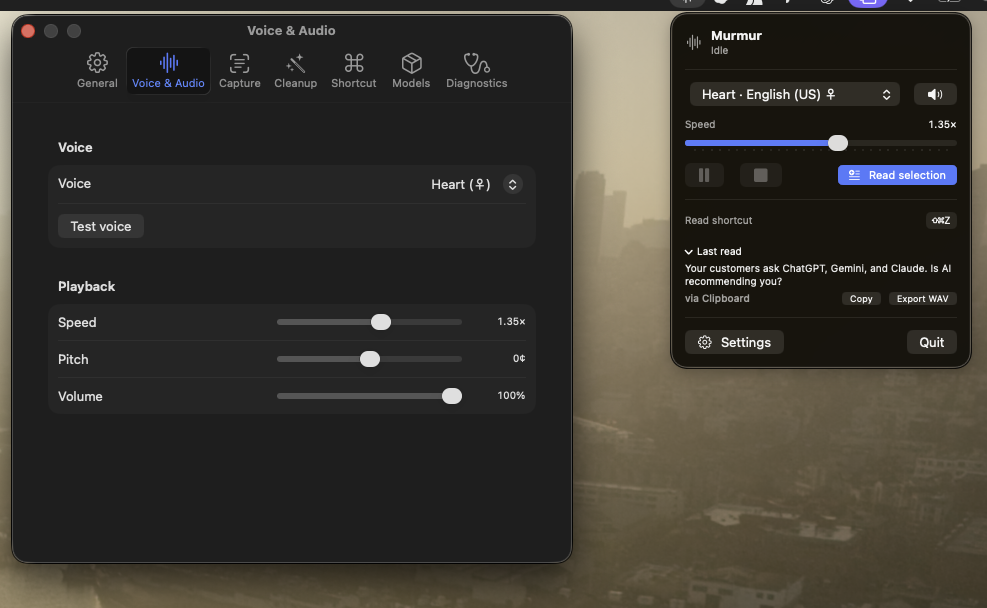
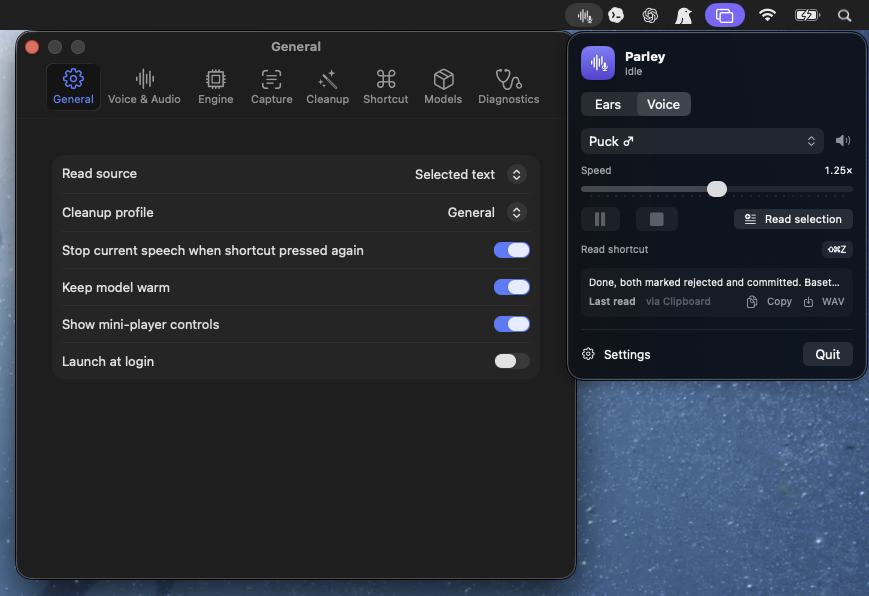
fix(hud,backend,docs): smooth grow fade, softer stop chime, lsof parse, README voice+ears
HUD: fade the transcript top edge as soon as it passes the first line
(not only on full overflow), and ease grow/shrink — removes the 'wonky'
hard-clip while the box expands. Settled and growing states now match.

Chime: stop cue 'Bottle' -> soft 'Pop' (start stays 'Tink').

Backend: fix listenerPID — 'lsof -t' prints bare PIDs, the '-Fp' parser
never matched so orphan adoption silently no-op'd. Verified end to end:
adopt orphan on launch, kill on quit, port frees.

Docs: README reframed as voice + ears (Parakeet dictation, modifier-only
chords, Ears/Voice tabs); new hero screenshot; permissions + license
updated for STT/FluidAudio.

Assisted-by: Claude claude-opus-4-8

diff --git a/app/Sources/Parley/DictationController.swift b/app/Sources/Parley/DictationController.swift
@@ -33,7 +33,9 @@ final class DictationController: ObservableObject {
     /// the screen (FluidVoice does this). Uses built-in macOS sounds.
     private func playChime(start: Bool) {
         guard Prefs.shared.dictationChime else { return }
-        NSSound(named: start ? "Tink" : "Bottle")?.play()
+        // Start: a bright "Tink" to cue recording. Stop: a soft "Pop" on insert —
+        // unobtrusive, distinct from the start cue ("Bottle" was too heavy).
+        NSSound(named: start ? "Tink" : "Pop")?.play()
     }
 
     /// Push-to-talk toggle.
@@ -213,25 +215,32 @@ struct DictationHUD: View {
                 Color.clear.frame(height: 1).id("bottom")
             }
             .frame(height: min(max(textHeight, oneLine), maxTextHeight))
-            // When the transcript overflows, fade the top edge so the partially-
-            // scrolled line softens out instead of being chopped mid-letter.
+            // Fade the top edge as soon as the transcript passes the first line —
+            // not only once it fully overflows. While the box is still growing,
+            // the bottom-pinned scroll would otherwise hard-chop the top line mid-
+            // letter; the gradient softens that the whole way up, so growth looks
+            // as clean as the settled (expanded) state.
             .mask {
                 VStack(spacing: 0) {
-                    // Fade a full line-height so a partially-scrolled top line
-                    // disappears smoothly instead of showing a hard half-line.
                     LinearGradient(colors: [.clear, .black], startPoint: .top, endPoint: .bottom)
-                        .frame(height: overflowing ? 30 : 0)
+                        .frame(height: faded ? 30 : 0)
                     Color.black
                 }
             }
-            .onPreferenceChange(TextHeightKey.self) { textHeight = $0 }
+            .onPreferenceChange(TextHeightKey.self) { h in
+                // Animate the grow/shrink so added lines ease in instead of
+                // snapping (which read as the "wonky" jump while it expanded).
+                withAnimation(.easeOut(duration: 0.12)) { textHeight = h }
+            }
             .onChange(of: dictation.partial) {
                 withAnimation(.easeOut(duration: 0.1)) { proxy.scrollTo("bottom", anchor: .bottom) }
             }
         }
     }
 
-    private var overflowing: Bool { textHeight > maxTextHeight + 1 }
+    /// True once the transcript is taller than a single line — the point past
+    /// which the top edge needs softening (during growth and at full size alike).
+    private var faded: Bool { textHeight > oneLine + 8 }
 
     @ViewBuilder private var statusDot: some View {
         switch dictation.state {

diff --git a/app/Sources/Parley/BackendManager.swift b/app/Sources/Parley/BackendManager.swift
@@ -245,12 +245,12 @@ final class BackendManager: ObservableObject {
         }.value
     }
 
-    /// PID holding the listen socket on `port` (first match), via `lsof`.
+    /// PID holding the listen socket on `port` (first match), via `lsof -t`
+    /// (terse: one bare PID per line).
     private nonisolated static func listenerPID(port: Int) -> pid_t? {
-        let out = runTool("/usr/sbin/lsof", ["-nP", "-iTCP:\(port)", "-sTCP:LISTEN", "-t", "-Fp"])
-        // -Fp prints lines like "p12345"; take the first.
-        for line in out.split(separator: "\n") where line.hasPrefix("p") {
-            if let v = Int32(line.dropFirst()) { return v }
+        let out = runTool("/usr/sbin/lsof", ["-nP", "-iTCP:\(port)", "-sTCP:LISTEN", "-t"])
+        for line in out.split(whereSeparator: \.isNewline) {
+            if let v = Int32(line.trimmingCharacters(in: .whitespaces)) { return v }
         }
         return nil
     }

diff --git a/README.md b/README.md
@@ -1,6 +1,6 @@
 # Parley
 
-**[Fluid Voice](https://github.com/altic-dev/FluidVoice), but for text-to-speech.** Fluid Voice turns your voice into text locally; Parley does the reverse — highlight text anywhere on macOS, press a hotkey, hear it read aloud in a high-quality local [Kokoro](https://github.com/hexgrad/kokoro) voice. Fully local, fully private — no cloud, no account, no tracking.
+**Voice and ears for your Mac — fully local.** Two-way speech in one menu-bar app: highlight text anywhere and **hear it** in a high-quality [Kokoro](https://github.com/hexgrad/kokoro) voice, or press a shortcut and **speak it** — local [Parakeet](https://huggingface.co/nvidia/parakeet-tdt-0.6b-v2) dictation types straight into whatever app you're in. No cloud, no account, no tracking. (Think [Fluid Voice](https://github.com/altic-dev/FluidVoice) for dictation **and** its text-to-speech counterpart, unified.)
 
 ![Parley — menu-bar controls and settings](docs/screenshot.png)
 
@@ -22,34 +22,39 @@ git clone https://github.com/latent-variable/Parley.git
 cd Parley && bash scripts/build_app.sh && open dist/Parley.app
 ```
 
-First launch downloads the Kokoro model (~340 MB) automatically. Grant Accessibility when prompted (or use Clipboard mode — no permission needed), then select text in any app and press **⌘⇧R**.
+First launch downloads the Kokoro model (~340 MB) automatically. Grant Accessibility when prompted (or use Clipboard mode — no permission needed), then select text in any app and press **⌘⇧R** to hear it. To dictate, press **⌘⇧D**, speak, press again — the text types where your cursor is.
 
 > **Why the extra step for ② / why "damaged"?** Apple's Gatekeeper blocks un-notarized downloads. Notarization needs a paid Apple Developer account, which this project doesn't use. Homebrew (①) handles it cleanly; building (③) sidesteps it entirely. Everything is local and the [source is all here](app/Sources/Parley).
 
 ## What it does
 
-- **Read from anywhere** — Chrome, Safari, PDFs, Terminal, VS Code, Notes, Slack, Gmail, Markdown. Selected-text capture via the Accessibility API, with a clipboard-copy fallback that restores your clipboard. Or skip the hotkey: select text → right-click → **Services ▸ Read with Parley**.
+Two halves, split into **Ears** and **Voice** tabs in the menu:
+
+- **Dictate into anything (ears)** — press the shortcut, speak, press again; the text pastes at your cursor in any app. Streaming [Parakeet](https://huggingface.co/nvidia/parakeet-tdt-0.6b-v2) STT on the Apple Neural Engine: a live, self-correcting transcript as you talk, then a second accurate pass on stop. English (Parakeet Flash) or 25-language multilingual. Optional start/stop chime and filler-word cleanup (strips "um"/"uh", never real words). One-click copy of the last dictation.
+- **Read from anywhere (voice)** — Chrome, Safari, PDFs, Terminal, VS Code, Notes, Slack, Gmail, Markdown. Selected-text capture via the Accessibility API, with a clipboard-copy fallback that restores your clipboard. Or skip the hotkey: select text → right-click → **Services ▸ Read with Parley**.
 - **Two voice engines, one dropdown:**
   - **Kokoro** (default) — 54 voices, 8 languages, instant, CPU. The everyday driver.
   - **Chatterbox Turbo HD** (opt-in) — markedly more natural speech on the GPU, with **voice cloning** from a ~10s reference clip. Ships a few clean open voices (CMU ARCTIC) and lets you add your own.
 - **Streaming playback** — audio starts while the rest synthesizes. Play / pause / stop; **live speed** (drag mid-readout), pitch, volume; natural pauses at sentence/line/paragraph boundaries.
 - **Smart cleanup** — strips Markdown, code fences, citations, terminal prompts, and more. Profiles for General / Markdown / Code / Blog / LLM output, plus editable regex rules with live preview.
 - **Manage your models** — **Settings ▸ Models** shows each engine's size on disk and lets you delete or re-download Kokoro (~340 MB) and HD (~1.3 GB) to reclaim space. Deleting HD keeps your cloned voices.
+- **Flexible shortcuts** — bind a normal chord (⌘⇧R) or a **modifier-only chord** like ⌥⌘ (the "Alt+Win" press), held and released — handy for a fast push-to-dictate key.
 - **Menu-bar utility** — status indicator, quick controls, settings. No dock icon. Fully local; HD audio is watermarked.
 
 ## Architecture
 
-Native SwiftUI menu-bar app + a local Python sidecar over `127.0.0.1`, with two interchangeable engines behind one HTTP contract.
+Native SwiftUI menu-bar app. **Voice** (TTS) talks to a local Python sidecar over `127.0.0.1`; **ears** (STT) run fully in-app on the Apple Neural Engine — no sidecar, no network.
 
 ```
-SwiftUI app ──HTTP──> FastAPI sidecar ──┬─ kokoro-onnx (ONNX, CPU)         ← default, instant
-  hotkey · capture · cleanup            └─ Chatterbox Turbo (PyTorch, MPS) ← opt-in HD, cloning
+SwiftUI app ──HTTP──> FastAPI sidecar ──┬─ kokoro-onnx (ONNX, CPU)         ← voice: default, instant
+  hotkey · capture · cleanup            └─ Chatterbox Turbo (PyTorch, MPS) ← voice: opt-in HD, cloning
   AVAudioEngine player                     streaming int16 PCM @ 24 kHz
+  AVAudioEngine mic ──► FluidAudio / Parakeet (CoreML, ANE) ← ears: streaming dictation, in-app
 ```
 
 - `backend/server.py` — `/health`, `/engines`, `/voices?engine=`, `/synthesize` (streams PCM, `engine` param; `?format=wav` for export), HD install + starter-voice endpoints.
 - `backend/chatterbox_engine.py` — the HD engine, lazy-loaded (no torch until used).
-- `app/Sources/Parley/` — hotkey (Carbon), capture (AX + clipboard), preprocessing, AVAudioEngine player (pre-buffered streaming, live speed via time-stretch), settings, views.
+- `app/Sources/Parley/` — hotkey (Carbon + a flagsChanged monitor for modifier-only chords), capture (AX + clipboard), preprocessing, AVAudioEngine player (pre-buffered streaming, live speed via time-stretch), dictation (FluidAudio streaming Parakeet + accurate final pass, mic capture, paste-at-cursor), settings, views.
 
 **The default app stays small (~88 MB).** Kokoro is bundled; the HD engine (torch + Chatterbox, ~1.3 GB) downloads on demand into Application Support **only when you enable it** — never in the shipped app. Both engines then run in one process (kokoro-onnx happily coexists with torch on numpy 1.26).
 
@@ -96,14 +101,15 @@ python download_models.py
 
 ## Permissions & privacy
 
-Parley runs **100% on your Mac**. No account, no telemetry, no analytics, and no network calls after the one-time model download. Synthesis happens locally in the bundled Kokoro engine. Every line of that is in this repo — read it.
+Parley runs **100% on your Mac**. No account, no telemetry, no analytics, and no network calls after the one-time model download. Speech synthesis runs in the bundled Kokoro engine; dictation runs on the Apple Neural Engine in-app — your voice and audio never leave the machine. Every line of that is in this repo — read it.
 
-**One permission: Accessibility.** macOS gates two things behind it, and Parley needs them to do its single job — turn the text you point at into speech:
+**One permission: Accessibility** (plus **Microphone** for dictation). macOS gates these behind it, and Parley needs them to move text in and out of the app you're using:
 
-| What | Why Accessibility is required |
+| What | Why it's required |
 |---|---|
 | Read the **selected text** in the frontmost app | macOS only lets a trusted app query another app's selection (`AXUIElement`) |
-| Simulate **⌘C** for the clipboard fallback | Posting a synthetic keystroke (`CGEvent`) requires the same trust |
+| Simulate **⌘C** / **⌘V** for clipboard fallback + dictation paste | Posting a synthetic keystroke (`CGEvent`) requires Accessibility trust |
+| **Microphone** for dictation | Capturing your voice to transcribe locally — audio never leaves the Mac |
 
 That's the entire reason. Parley does **not** log your keystrokes, watch what you type, take screenshots, read your screen, or send anything anywhere. It reads one thing — the text you explicitly select and trigger — and speaks it. The capture code is [`TextCapture.swift`](app/Sources/Parley/TextCapture.swift): it reads the current selection (or copies it, then **restores your clipboard**) and nothing else.
 
@@ -133,7 +139,9 @@ Shipped:
 - [x] **Self-contained: bundles its own Python runtime** — runs on Macs with no Python installed.
 - [x] **Chatterbox Turbo HD engine** — opt-in GPU voice cloning, unified voice picker, live speed, pre-buffered streaming.
 - [x] **Right-click → Read with Parley** (macOS Services menu).
-- [x] **Model management** — delete / re-download either engine from Settings ▸ Models.
+- [x] **Model management** — delete / re-download any engine from Settings ▸ Models.
+- [x] **Dictation (ears)** — streaming Parakeet STT on the ANE, live self-correcting transcript + accurate final pass, push-to-talk, paste-at-cursor, chime + filler cleanup.
+- [x] **Modifier-only chords** — bind a pure-modifier shortcut (e.g. ⌥⌘) for fast push-to-dictate.
 
 Next:
 
@@ -143,4 +151,4 @@ Next:
 
 ## License
 
-MIT. Kokoro weights are Apache-2.0 (hexgrad/Kokoro-82M). Chatterbox is MIT (Resemble AI); HD reference voices from CMU ARCTIC (free to use). HD audio is watermarked; clone only voices you have rights to.
+MIT. Kokoro weights are Apache-2.0 (hexgrad/Kokoro-82M). Chatterbox is MIT (Resemble AI); HD reference voices from CMU ARCTIC (free to use). HD audio is watermarked; clone only voices you have rights to. Dictation uses [FluidAudio](https://github.com/FluidInference/FluidAudio) (Apache-2.0) running NVIDIA Parakeet TDT models.